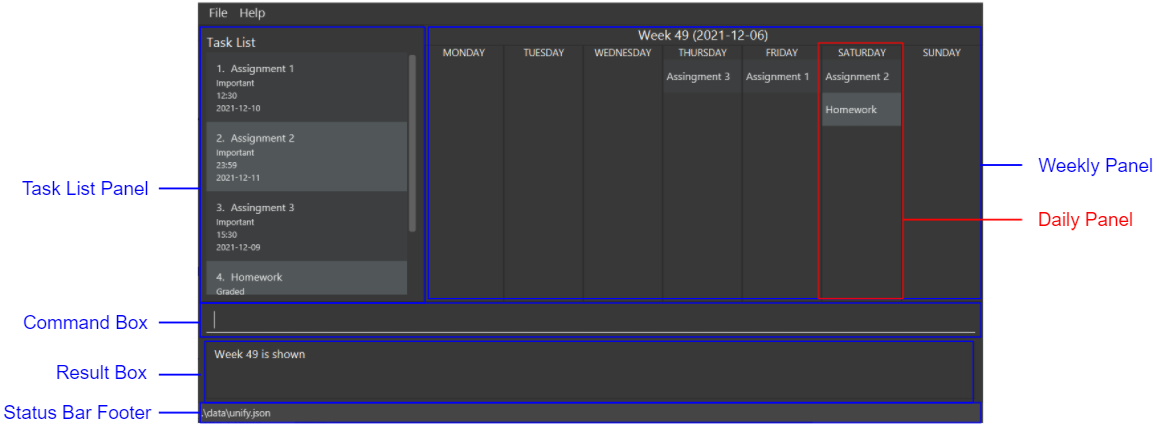
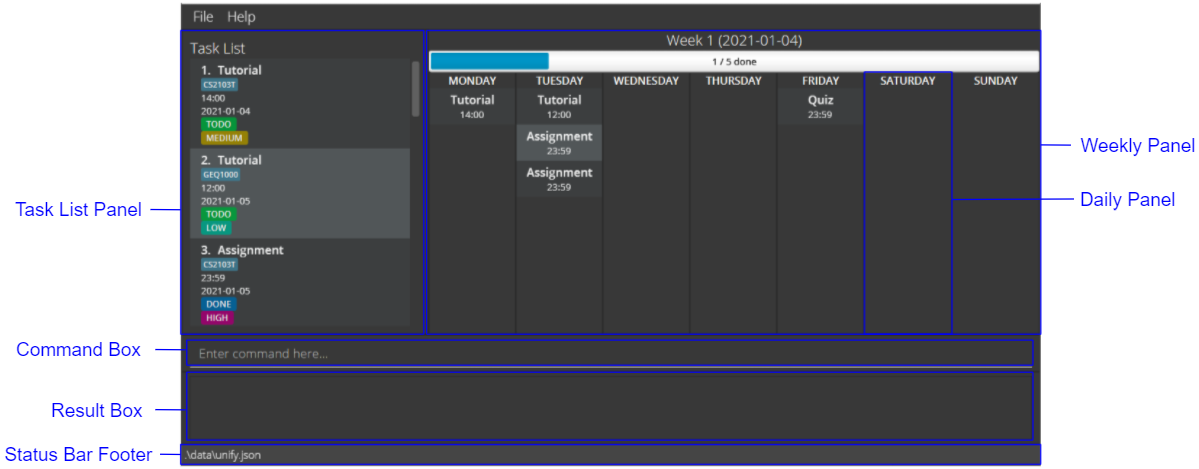
Update for 1.4 screenshots - delete

Changed region(s): [[0.0, 0.0, 1.0, 1.0]]

diff --git a/docs/UserGuide.md b/docs/UserGuide.md
@@ -26,7 +26,6 @@ Interested to jump right in? Take a look at [**3. Getting started**](#3-getting-
 The following is the GUI of our application:
 
 ![UI Preview](images/userguide/1.2.1%20UI%20Preview.png)
-- Note that Daily Panel is in red only for visibility purposes
 
 GUI Components:
 1. **Task List Panel**: Displays all your tasks
@@ -389,16 +388,10 @@ Removes a specific task that has been added to your app.
 
 **:green_book: Examples:**
 
-* `delete 3` removes the third item in the task list
-* `delete 1 2` removes the first and second items in the task list
+* `delete 2` removes the second item in the task list
+* `delete 1 3` removes the first and third items in the task list
 
 </div>
-
-**Demonstration:**
-
-
-<div style="page-break-after: always;"></div>
-
 
 ![delete_command](images/userguide/deleteCommandBefore.png)
 
